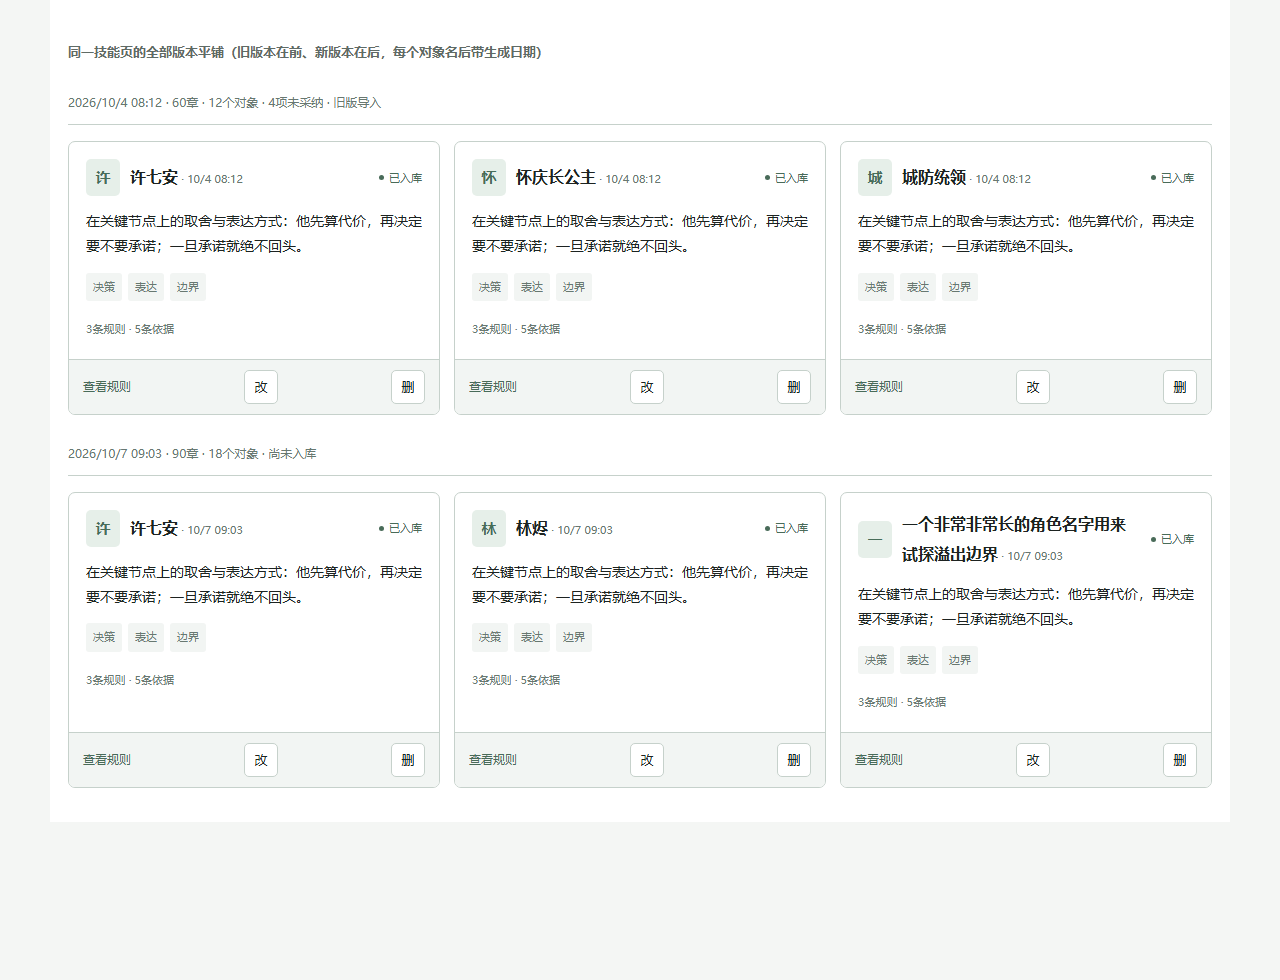
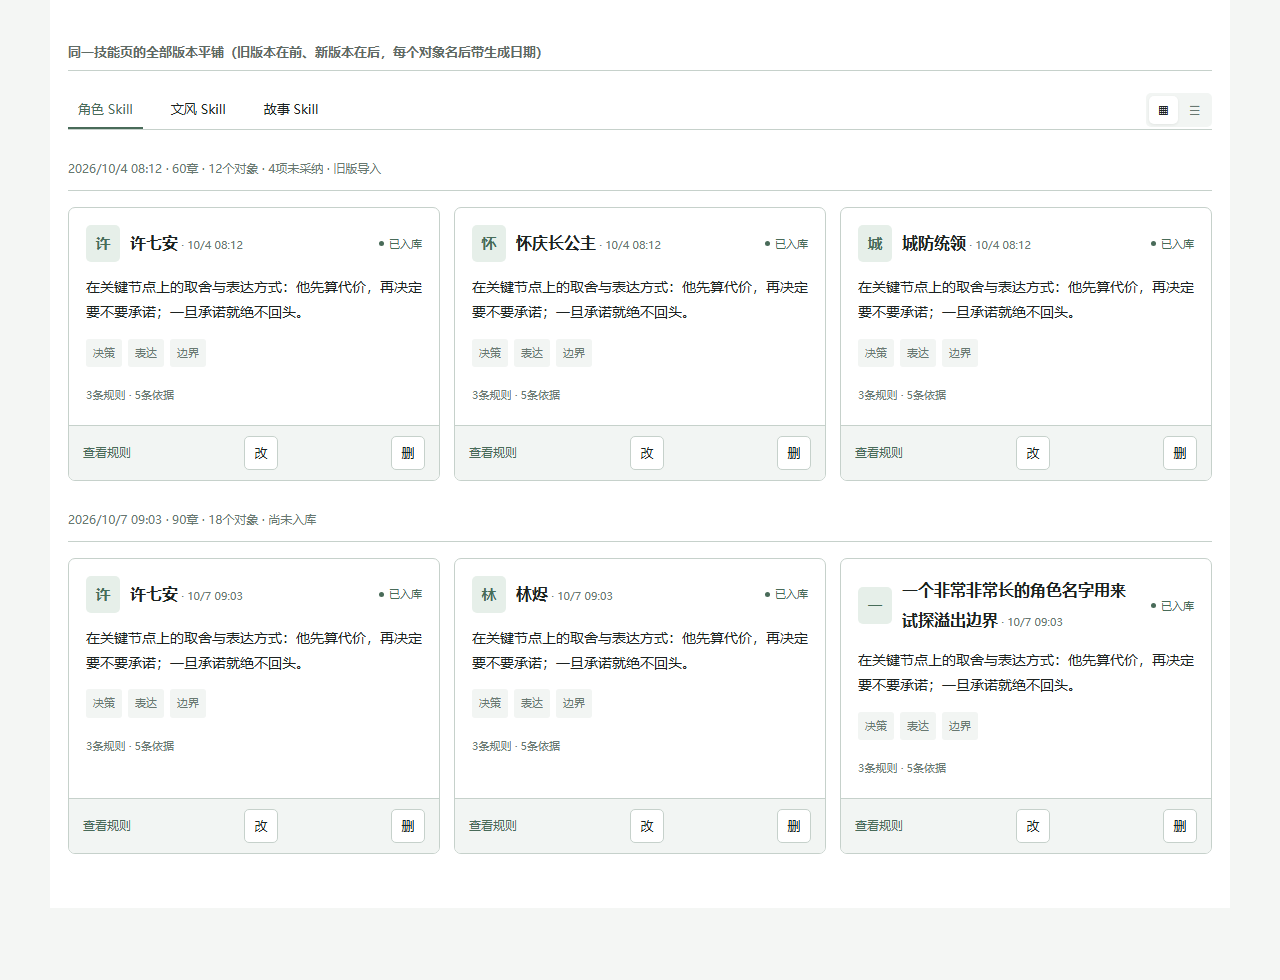
test(拆书结果面板): 补齐自动入库的端到端断言、真实浏览器工具条几何检查与截图
1) 新增端到端用例：自动发布成功后，重读回来的 confirmedAt 必须让徽标从「尚未入库」
   变成「已入库」。原先只断言「revisions 被重读过」与「存在某个徽标」，两者都不保证
   用户可见结果真的改变（前者不保证界面跟着变，后者不保证变的是对的那一版）。
   变异验证：把发布成功后的 reloadRevisions 拿掉 → 连同既有用例共杀 2 条。

2) check-panel.mjs 新增结果区工具条几何检查（1280/900/700/620/600/420px 六档）：
   结果区只有一个视图切换、页签与切换不重叠、切换不超出工具条右边缘、不造成横向溢出、
   下边框只在工具条上有一份。并加了两条结构性不变量：组件源码里 wb-view-switch 只能
   出现一次、页签与切换必须同处 wb-results-bar。
   另修掉一处**假绿**：非空洞证明用非全局 replace 改 .wb-card-date 规则，而 allCss 里
   同一条规则有两份（dist 产物 + 源文件），只改掉第一份时变异体并未被削弱（实测
   去掉 nowrap 后 0/7 折断），该证明会永远通过。改为全局替换，并加断言「变异后不得残留
   带 nowrap 的日期规则」。修好后同一变异体实测折断 1/7（dateH 44 vs 行高 20）。
   同时把「CSS 文案逐字匹配」改成按属性断言 —— 构建期 lightningcss 会重排属性顺序，
   逐字比对会假失败（实测 dist 里是 border-bottom:0;flex:1;min-width:0;margin-bottom:0）。

3) shots-panel.mjs 增加结果区工具条，截图重出（stacked-1280 / stacked-760）。

4) 新增 count-delta.mjs：列出本次改动相关文件的用例数变化，确认全量套件的 +N 全部
   来自有意新增的测试，而不是某个文件被意外重新收集。

验证
- 全量套件 A/B（基线 qmai-new2.json = b156c46，本次 qmai-final3.json）：
  681 文件 → 681 文件；200 失败 → 200 失败；失败文件 27 → 27；
  **新增失败文件 0 个**、失败数变化的文件 0 个、未跑到的基线文件 0 个。
  用例数 6168 → 6176（+8），经 count-delta.mjs 确认只来自
  workbench-remove.spec.ts（11→16）与 book-analysis-workbench.spec.tsx（59→62）。
- tsc -p tsconfig.app.json --noEmit → exit 0。
- src/components/novel + src/lib/novel/book-analysis → 961 用例 / 960 通过，
  唯一失败是已知既存项 book-analysis-cache-workflow.spec.ts。
- 真实浏览器：check-panel.mjs → 失败项 0（通过 96 项）。

diff --git a/src/components/novel/book-analysis-workbench.spec.tsx b/src/components/novel/book-analysis-workbench.spec.tsx
@@ -853,6 +853,30 @@ describe("分析结果自动入库", () => {
     expect(mocks.revisions.mock.calls.length).toBeGreaterThan(1)
   })
 
+  it("端到端：自动发布成功后，重读回来的 confirmedAt 让徽标从「尚未入库」变成「已入库」", async () => {
+    /*
+     * 这是整个「分析完自动入库」功能的用户可见结果，必须端到端钉住：
+     * 只是断言「revisions 被重读过」或「存在某个徽标」都不够 —— 前者不保证界面跟着变，
+     * 后者不保证变的是对的那一版。这里让 mock 第一次返回未入库版本、之后返回已入库版本，
+     * 模拟真实落盘→重读的往返。
+     */
+    const pending = revisionFixture({ id: "rev-auto", taskId: "t-auto" })
+    const stored = revisionFixture({ id: "rev-auto", taskId: "t-auto", confirmedAt: 99 })
+    let loads = 0
+    mocks.revisions.mockImplementation(async () => { loads += 1; return [loads === 1 ? pending : stored] })
+
+    await act(async () => root.render(<BookAnalysisWorkbench />))
+    await act(async () => {})
+
+    const block = host.querySelector('[data-revision-id="rev-auto"]')!
+    // 重读确实发生过（否则下面的绿只是「本来就没渲染过待确认」）。
+    expect(loads).toBeGreaterThan(1)
+    const badges = Array.from(block.querySelectorAll(".wb-card-status")).map((b) => b.textContent)
+    expect(badges.length).toBeGreaterThan(0)
+    expect(badges.every((t) => t === "已入库")).toBe(true)
+    expect(block.textContent).not.toContain("尚未入库")
+  })
+
   it("自动发布失败只报错一次、不重试、不写确认标记", async () => {
     // 盘上的版本必须每次都以新数组回来（去重只靠 id，不靠引用相等），
     // 并且发布成功后才带上 confirmedAt —— 否则重读不会真的改变 revisions，effect 也就不会重跑，
